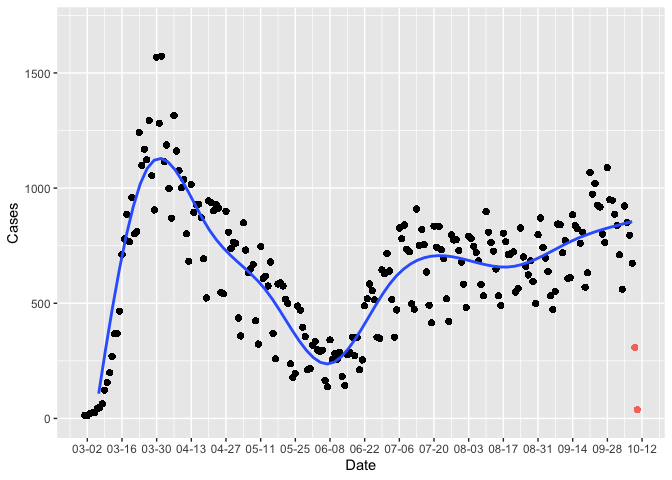
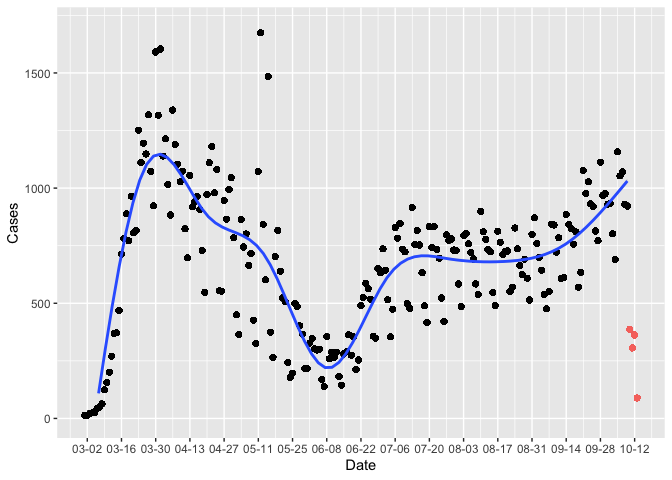
10/14/2020 update

diff --git a/MiCorona.md b/MiCorona.md
@@ -1,12 +1,12 @@
 Michigan COVID Data
 ================
 Adam D. DenHaan
-12 October, 2020
+14 October, 2020
 
 Read in data:
 
 ``` r
-download.file("https://www.michigan.gov/documents/coronavirus/Cases_by_County_and_Date_2020-10-10_704800_7.xlsx", destfile = "/tmp/file.xlsx")
+download.file("https://www.michigan.gov/documents/coronavirus/Cases_and_Deaths_by_County_and_Date_2020-10-13_704995_7.xlsx", destfile = "/tmp/file.xlsx")
 
 mi_data = readxl::read_excel("/tmp/file.xlsx")
 
@@ -34,7 +34,7 @@ mi_cases_by_day = mi_data %>%
     Date = date(Date)
   ) 
 
-day_split = 3
+day_split = 4
 
 mi_cases_by_day_exclusive <- mi_cases_by_day %>%
   filter(                                  #most recent data is often inaccurate and revised
@@ -70,5 +70,5 @@ mi_cases_by_day_exclusive %>%
 
 ![](MiCorona_files/figure-gfm/viz-1.png)<!-- -->
 
-Note that the last 2 days of data have been colored red on the graph, as
+Note that the last 3 days of data have been colored red on the graph, as
 they frequently change as more information becomes available.
